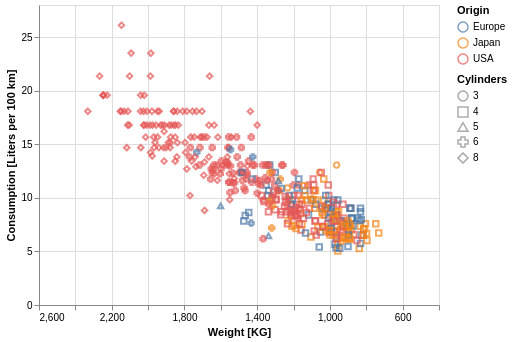
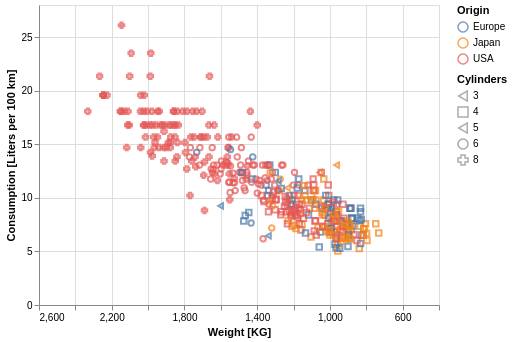
altair examples

diff --git a/md/23_Altair/altair_12_timeseries.md b/md/23_Altair/altair_12_timeseries.md
@@ -1,0 +1,133 @@
+---
+layout: 20_python
+title: Time Series
+permalink: /timeseries
+---
+
+# Altair: Time Series
+
+A standard use case in accounting are costs over time.
+
+{% include images/image.html imagePath = "../assets/images/img_blog/img_altair/Timeseries.png" imageCaption =  ""%}
+
+The chart is based on a theme such that all charts have the same background, grid line width or dash, etc..
+
+
+### Define a 'Theme'
+
+Using a theme can make your main coding much more concise. A theme is a collection of your choice of recurring chart conigurations.
+You can further change the look of all your charts easily by just making the change once in your theme.
+
+You can outsource the theme to an extra file. 
+This extra file essentially contains a function. This function returs a 'configuration'. 
+
+>
+    def myTheme():
+    ...
+    return {
+        'config': {
+            "background": 'white', 
+                    },
+    }
+
+However, you need to be careful about what to put into a theme, because you might not want all your chart to be identical. You can overwrite though a property set in the theme for your specific chart.
+
+
+### Using a 'Theme'
+
+You need to register and enable the theme such that it affects your chart.
+
+>
+    from myTheme_file import myTheme
+    alt.themes.register('myTheme', myTheme)
+    alt.themes.enable('myTheme')
+
+### Long Format (melt)
+
+I had created a file with time series before and had saved it as a csv file.
+After reading the data into a dataframe, it needs to be converted from wide format to long format.
+
+>
+    df = df.reset_index().melt(id_vars="Month", var_name="Type", value_name="Measurement")
+
+Altair does not accept the index to be set, thus reset the index during this melt operation.
+
+
+### Height and Width
+
+I sometimes want to change the ratio of the chart depending on the content. This setting worked quite well.
+
+>
+    chart = chart.properties(
+        height=600,   
+        width=900, 
+        autosize=alt.AutoSizeParams(
+            type='fit',
+            contains='padding'
+        ),
+    )    
+
+
+### Title and Subtitle
+
+You can specify the text of the title and the subtitle in the chart properties. The formatting of them might mostly go to the theme.
+
+>
+    subtitle = ["Subtitle1", "Subtitle2"]
+    title={
+      "text": title, 
+      "subtitle": subtitle,
+    }, 
+
+Great about subtitles: you can have more than one row!
+
+Depending on the specific text for the chart, the title or subtitle often needs to be smaller or larger.
+
+>
+    myChart = myChart.configure_title(
+        fontSize=26,
+        subtitleFontSize=18,
+    )    
+
+Issue noted: When an automatically generated subtitle gets too long, the chart is not shown. 
+
+
+### Format the X-Axis for Month
+
+You can choose among different formats. yearmonth, for instance, displays both year and month.
+The data must be in a suitable format, e.g. 2022-01-01. 
+The axis can be scaled using a start date and an end date. 
+
+>
+    alt.X(
+        'yearmonth(Month):T', 
+        title="Month",
+        scale=alt.Scale(domain=(startDate, endDate)),
+        ),
+
+
+### Format the Y-Axis
+
+On the y-axis, most importantly you might set manually the scale and the number of ticks.
+
+>
+    alt.Y('Measurement:Q', 
+            title="Y-Axis",
+            axis=alt.Axis(tickCount=10),
+            scale=alt.Scale(domain=(0, 2000)),
+            ), 
+
+### Format the Coloring
+
+On the coloring, you might want to set the colors of your choice, e.g. you might want Account_A to be blue. You can enforce the sequence by sort.
+
+>
+    alt.Color('Type:O', title="Type", 
+        sort=myLegend,
+        scale={"range": [
+            para["color_steelblue"],
+            para["color_indianred"],
+            para["color_darkseagreen"] 
+            ]
+            },
+        ),          

diff --git a/md/23_Altair/altair_10_cars.md b/md/23_Altair/altair_10_cars.md
@@ -1,14 +1,16 @@
 ---
 layout: 20_python
-title: Altair Listing
+title: Vega Cars
 permalink: /vega_cars
 ---
 
-# Altair: Cars Example
+# Altair: Modified Cars Example
 
-This is the result. The details are described below.
+Find here the result. The details are described below.
 
 {% include images/image.html imagePath = "../assets/images/img_blog/img_altair/myCars.png" imageCaption =  ""%}
+
+You can find the 'standard cars example' in many places. I modified it here to make the point that there is a good correlation between the weight of a car and its fuel consumption. As a European, I am more familiar with the units kilogram and liters per 100 km. 
 
 
 ### Import Vega Data
@@ -32,4 +34,51 @@ A scatter plot in Altair is 'mark_point'. The (...) here mean that details are o
     import altair as alt
     myChart = alt.Chart(df).mark_point().encode(...)
 
+### Save the chart
 
+You can show the chart directly in a browser.
+>
+    chart.show()
+
+Typically, however, I want to save the chart as a PNG file.
+
+>
+    from altair_saver import save
+    fullpath = /home/..../chartName.png
+    save(chart, fullpath)
+
+
+For saving as PNG, there is an issue that can be fixed with an additional installation.
+The interactive features are not available when using PNG.
+
+
+### Formatting x-axis
+
+On the dataframe, I earlier created a column 'Weight_KG' that I use as x-axis.
+The label should indicate that the weight is not the original lbs. 
+I chose to fix the scale and also to revert it, i.e. running from high value to low value.
+
+>
+    alt.X(
+        'Weight_KG', 
+        title="Weight [KG]", 
+        scale=alt.Scale(domain=[2500, 500])
+        ),
+
+The y axis behaves similarly.
+
+### Formatting Different (Hue) Colors, Shapes
+
+The 'origin' is a standard column in the data set. For the purpose of demo, I give it another color scheme.
+
+>
+    alt.Color('Origin',
+            scale=alt.Scale(scheme='tableau10'),   
+        ),
+
+I tried to mark the various cylinder numbers differently
+
+>
+    alt.Shape('Cylinders', 
+        scale=alt.Scale(range=['triangle-left','square', 'triangle-left','circle', 'cross'])
+    ),

diff --git a/md/23_Altair/altair_01_listing.md b/md/23_Altair/altair_01_listing.md
@@ -10,3 +10,12 @@ permalink: /altair_listing
 | :---            |    :--------   |  :--- |  :--- |  
 | Get Demo Data | get demo data from Vega| from vega_datasets import data |[Vega Cars](vega_cars)| 
 | Getting Started | create a first plot| chart = alt.Chart(df).mark_point().encode(...) |[Vega Cars](vega_cars)| 
+| Manage Plot | save the plot on the file system| from altair_saver import save |[Vega Cars](vega_cars)| 
+| Axis | label an axis| title="...",  scale=alt.Scale(domain=[...]) |[Vega Cars](vega_cars)| 
+| Colors | choose colors or shape|  alt.Color(...), alt.Shape(...)]) |[Vega Cars](vega_cars)| 
+| Layout | define a theme| def mytheme(): ...return ...  |[Time series](timeseries)| 
+| Layout | use your theme| alt.themes.register(...)  |[Time series](timeseries)| 
+| Layout | Width and Heigth| myChart.properties(width=(...)  |[Time series](timeseries)| 
+| Data | put csv data to Altair format| df.reset_index().melt(id_vars=...) |[Time series](timeseries)| 
+| Title | add title and subtitle| title={"text":[title],"subtitle": ... |[Time series](timeseries)| 
+| Axis | format for month| alt.X('yearmonth(Month):T', ...) |[Time series](timeseries)| 

diff --git a/md/90_References/altair_references.md b/md/90_References/altair_references.md
@@ -1,6 +1,6 @@
 ---
 layout: 20_python
-title: Altair Listing
+title: Altair References
 permalink: /altair_references
 ---
 
@@ -11,6 +11,7 @@ permalink: /altair_references
 
 - [Vega and Vegalite](https://vega.github.io/)
 - [Vega Datasets](https://pypi.org/project/vega-datasets/)
+- [Vega Color Schemes](https://vega.github.io/vega/docs/schemes/)
 
 ## Altair
 
